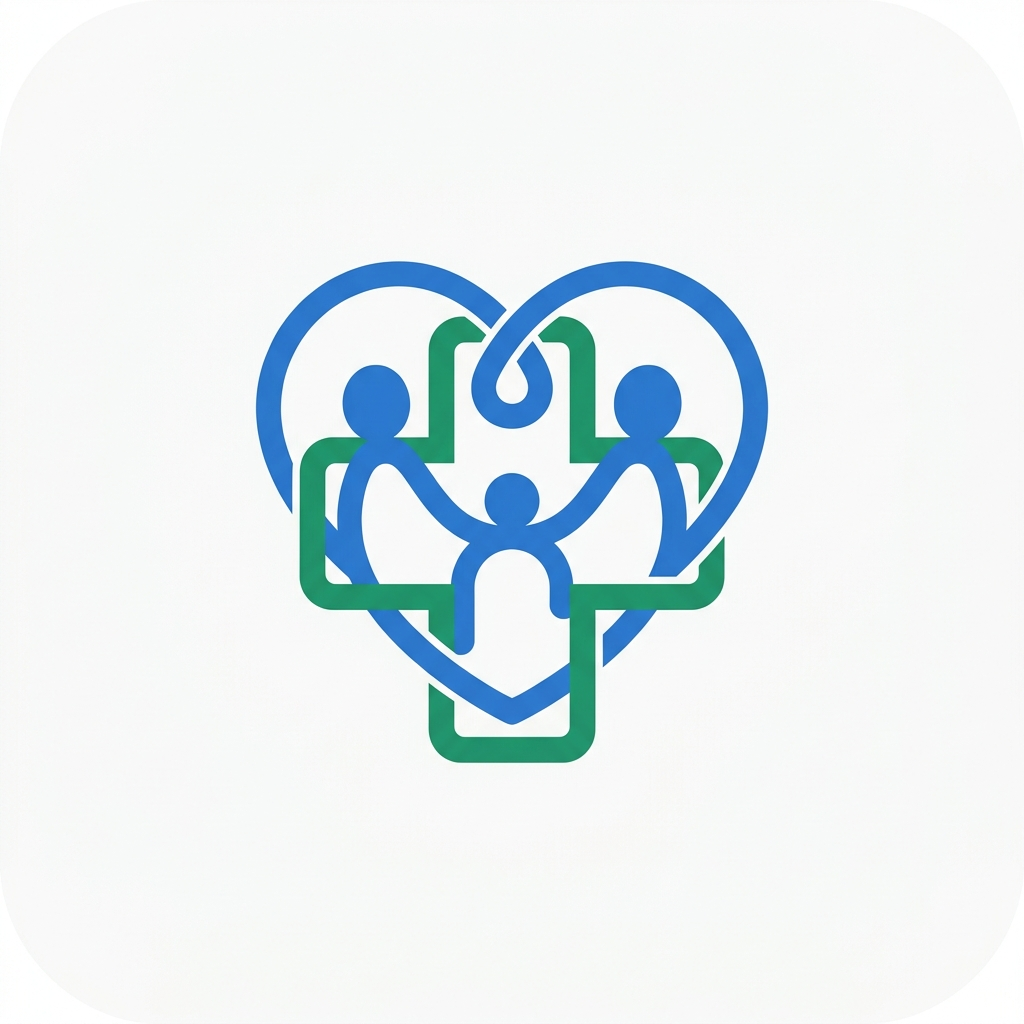
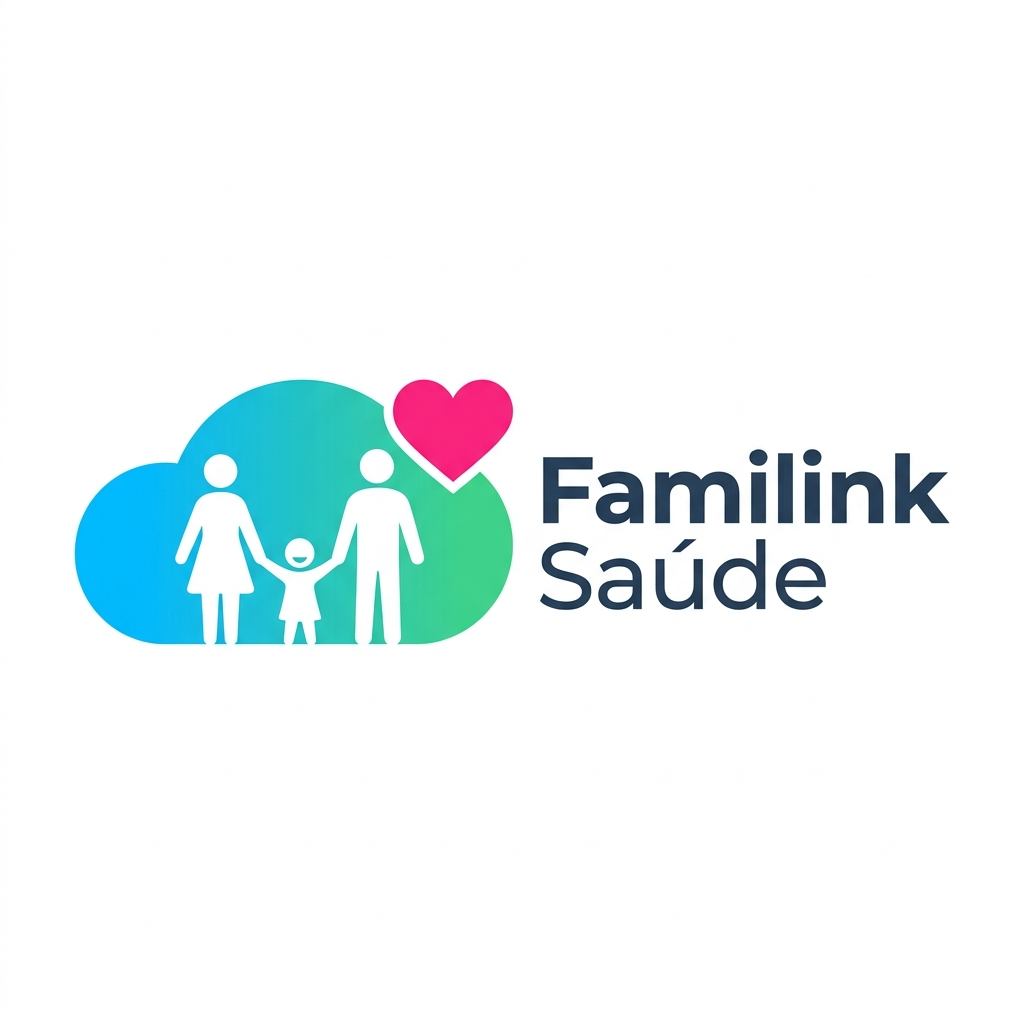
Add files via upload

Changed region(s): [[0.0625, 0.25, 0.9375, 0.75]]

diff --git a/src/App.tsx b/src/App.tsx
@@ -530,8 +530,8 @@ export default function App() {
     return (
       <div className="min-h-screen bg-slate-50 flex items-center justify-center p-4">
         <div className="max-w-md w-full bg-white rounded-3xl overflow-hidden shadow-xl p-8 border border-slate-150 text-center flex flex-col items-center animate-in fade-in zoom-in-95 duration-200">
-          <div className="relative p-4 bg-gradient-to-tr from-blue-50 to-indigo-50 text-blue-600 rounded-2xl mb-5 flex items-center justify-center shadow-inner">
-            <HeartPulse className="w-10 h-10 text-indigo-600 animate-pulse" />
+          <div className="relative mb-5 flex items-center justify-center p-1 bg-slate-50 border border-slate-100 rounded-3xl overflow-hidden w-28 h-28 shadow-sm">
+            <img src="/icon-512.jpg" alt="Familink Logo" referrerPolicy="no-referrer" className="w-full h-full object-cover rounded-2xl" />
           </div>
           
           <h2 className="text-2xl font-black text-gray-900 leading-tight tracking-tight">
@@ -573,10 +573,10 @@ export default function App() {
           <div className="flex items-center gap-2 sm:gap-2.5 min-w-0">
             <div className="relative flex items-center justify-center shrink-0">
               {/* Outer soft glowing background ring */}
-              <div className="absolute inset-0 bg-blue-600/10 rounded-2xl scale-125 blur-xs animate-pulse duration-3000" />
-              {/* Inner gradient container */}
-              <div className="relative p-1.5 sm:p-2 bg-gradient-to-tr from-blue-600 via-indigo-600 to-violet-600 text-white rounded-xl shadow-md border border-white/10 flex items-center justify-center">
-                <HeartPulse className="w-4 h-4 sm:w-5 sm:h-5 text-white/95 stroke-[2.2]" />
+              <div className="absolute inset-0 bg-blue-600/10 rounded-2xl scale-110 blur-xs animate-pulse duration-3000" />
+              {/* Inner container */}
+              <div className="relative p-0.5 bg-slate-50 border border-slate-150 rounded-xl overflow-hidden w-9.5 h-9.5 sm:w-11 sm:h-11 flex items-center justify-center shadow-xs">
+                <img src="/icon-512.jpg" alt="Familink Logo" referrerPolicy="no-referrer" className="w-full h-full object-cover rounded-lg" />
                 {/* Embedded dynamic link/heart sub-dot badge */}
                 <span className="absolute -top-0.5 -right-0.5 flex h-2 w-2">
                   <span className="animate-ping absolute inline-flex h-full w-full rounded-full bg-emerald-400 opacity-75"></span>

diff --git a/index.html b/index.html
@@ -4,6 +4,7 @@
     <meta charset="UTF-8" />
     <meta name="viewport" content="width=device-width, initial-scale=1.0, maximum-scale=1.0, user-scalable=no" />
     <title>Familink Saúde - Controle & Prontuários</title>
+    <link rel="icon" type="image/jpeg" href="/icon-512.jpg" />
     
     <!-- PWA & Mobile integration -->
     <link rel="manifest" href="/manifest.json" />